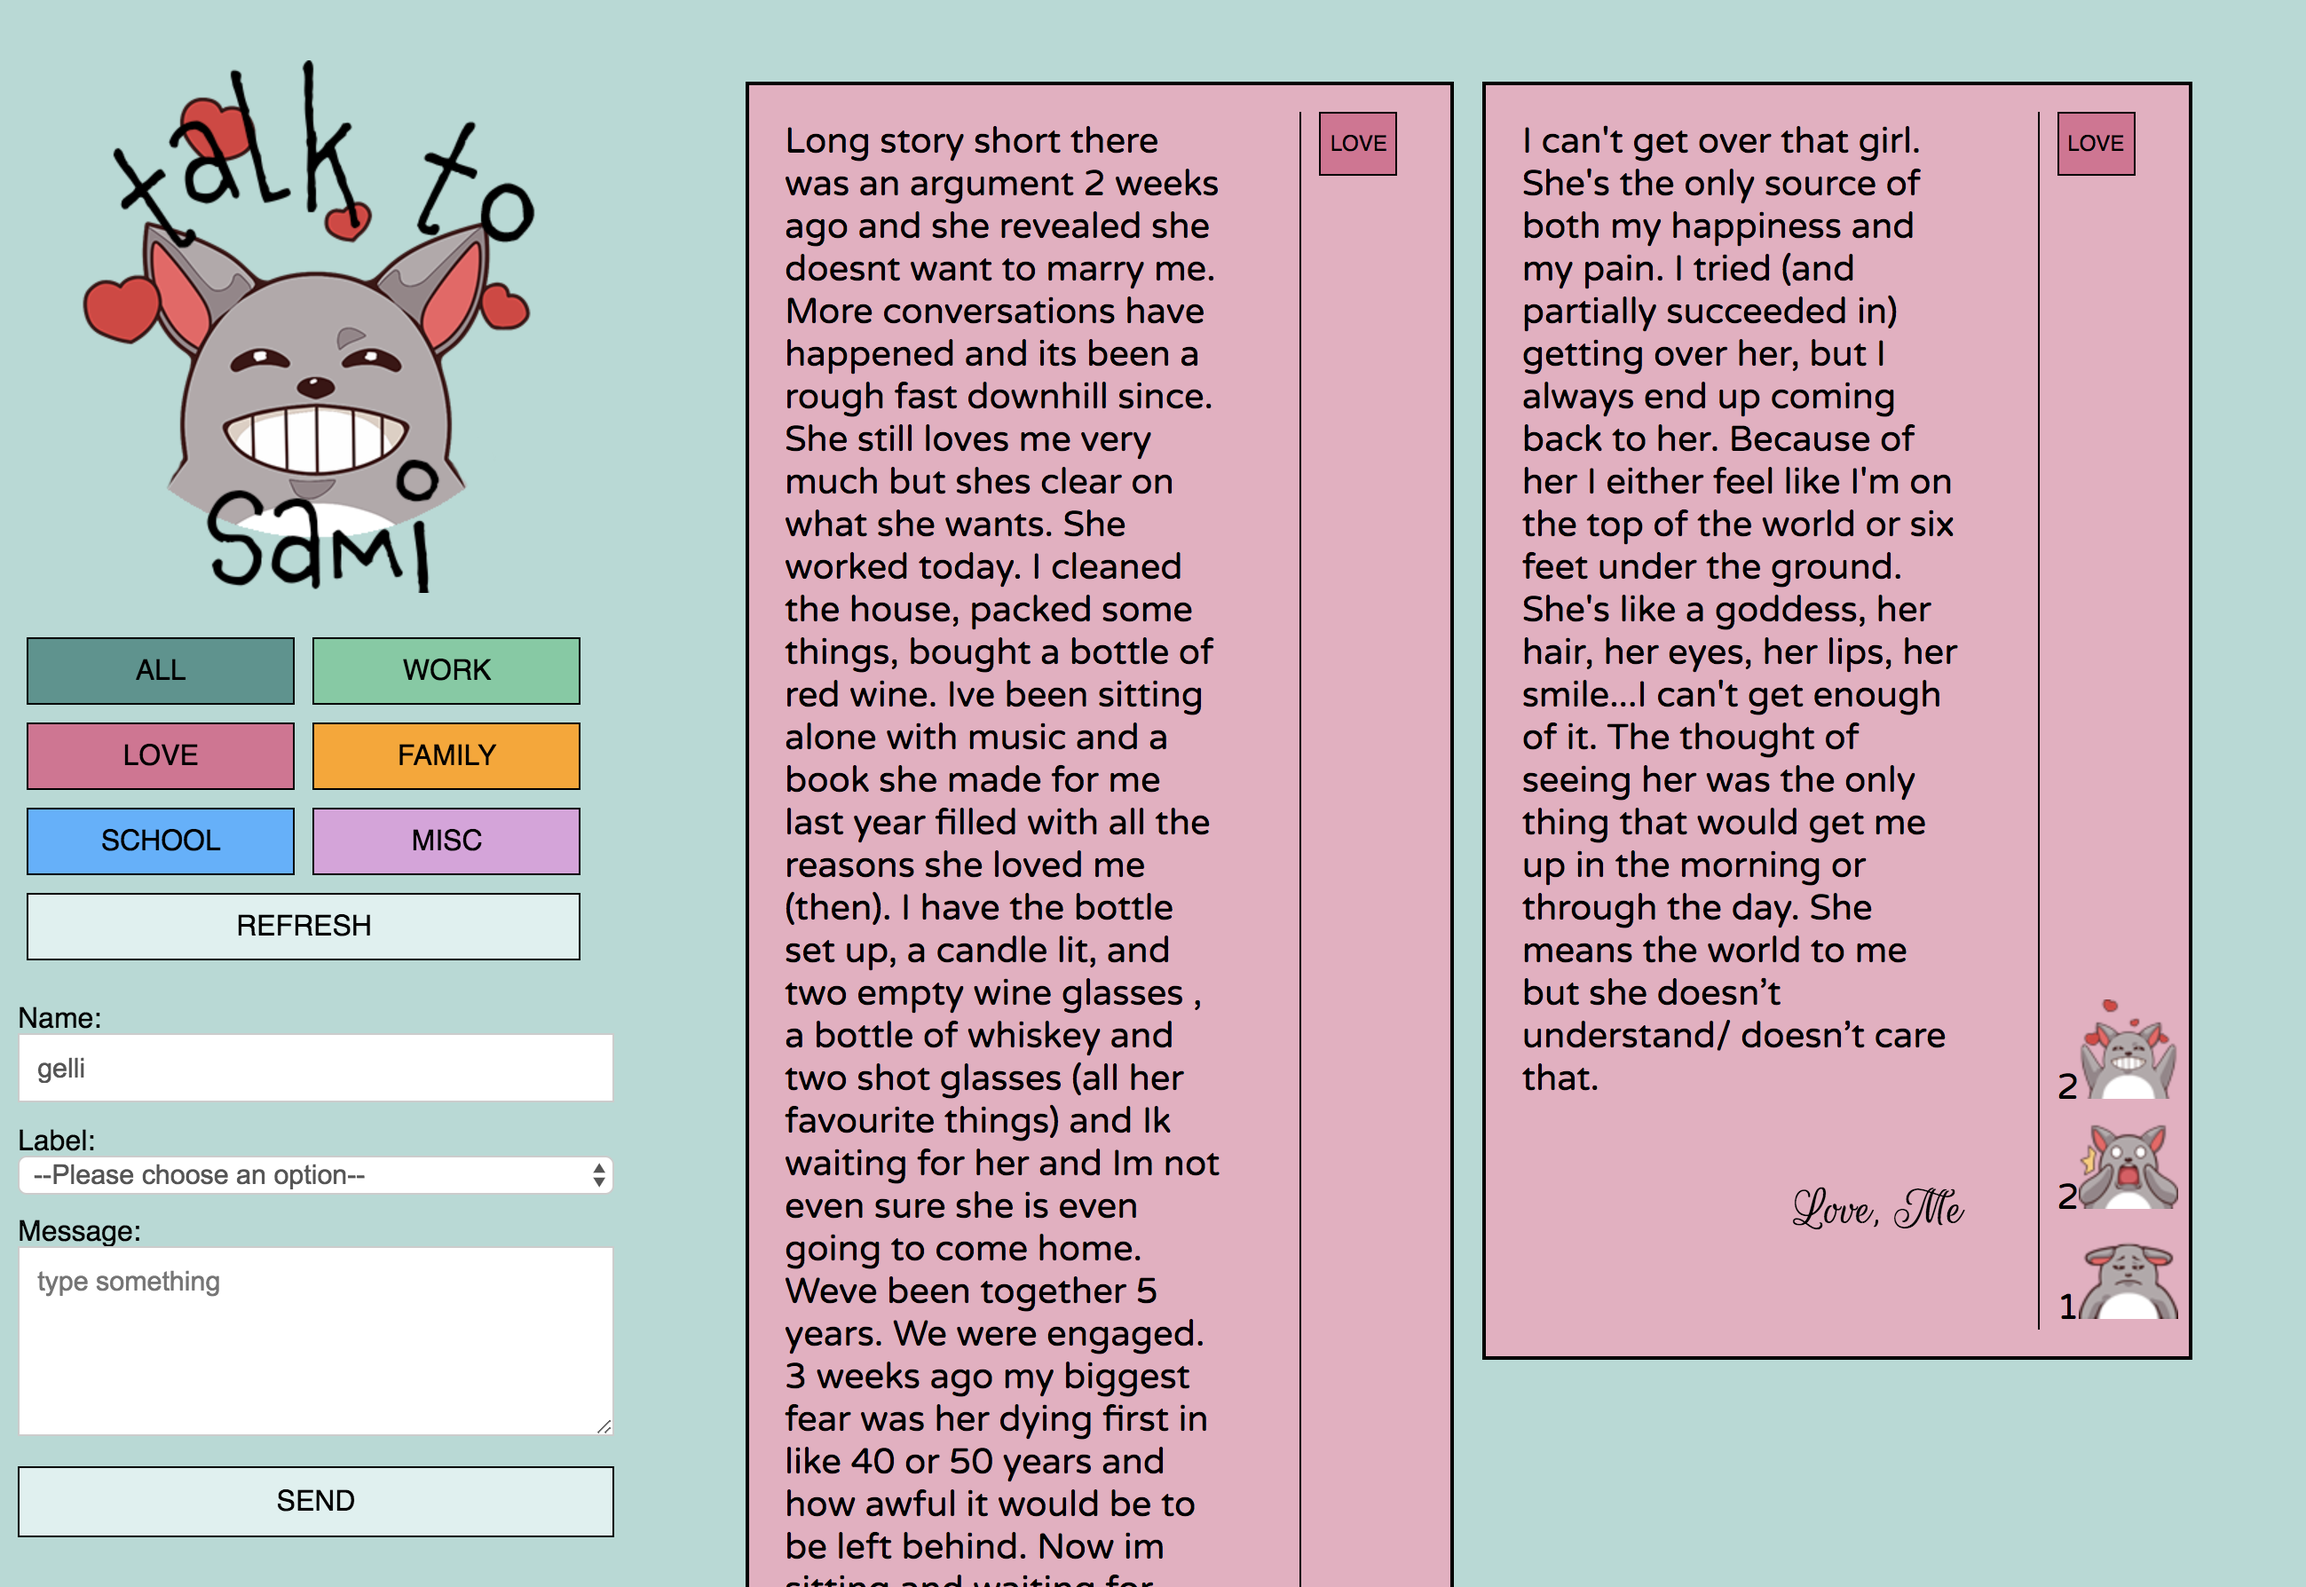
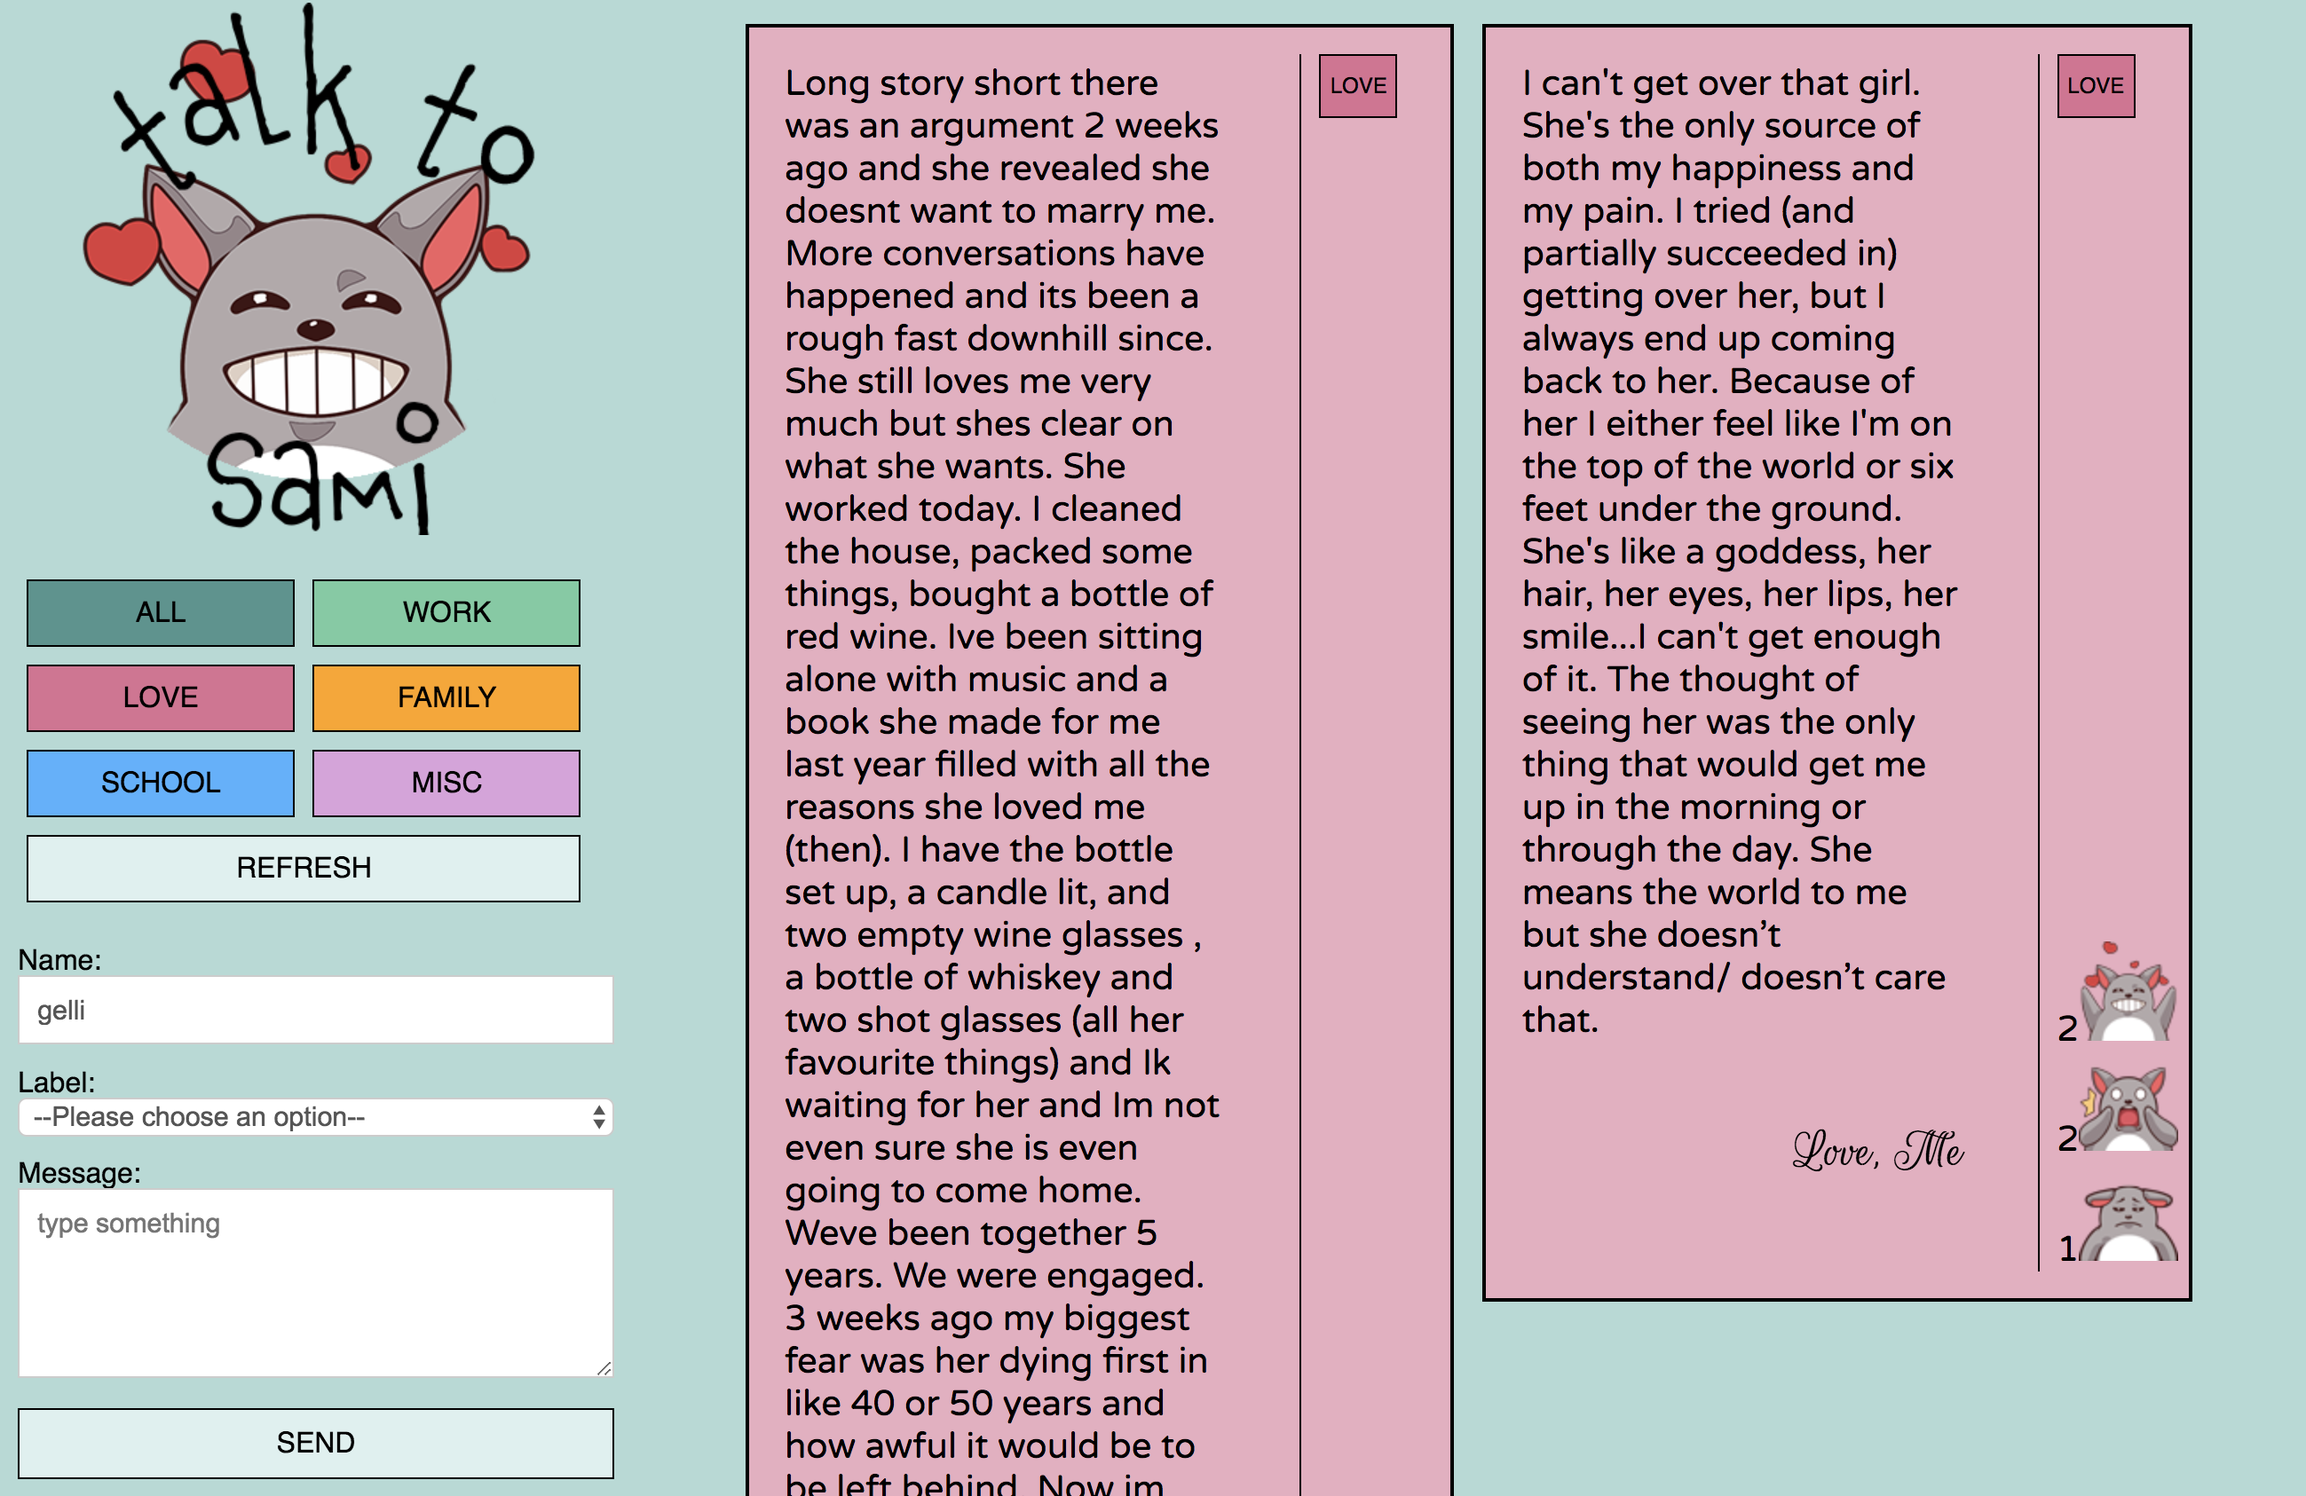
complete

diff --git a/dist/js/homeComponent.js b/dist/js/homeComponent.js
@@ -5,6 +5,6 @@ var home = Vue.component('home', {
     data: function data() {
         return {};
     },
-    template: "\n\t<div class=\"content\">\n    \n        <p>You can also call me Gelli.</p>\n        <p>Currently an Interactive Development student at The Creative Circus</p>\n        <p>Pottermore placed me in Ravenclaw and Horned Serpent</p>\n        <p>Buzzfeed described me as a combo of McGonagall and Daenerys</p>\n        <p>Here is a collection of what I worked on for the past few months:</p>\n        \n        <ul class=\"page-ul\">\n        <li>\n            Project: {{teams.name}}\n            <router-link to=\"/teams\">\n                <div class=\"img-size\"><img :src=\"teams.thumbnail\"></div>\n            </router-link>\n        </li>\n\n        <li>\n            Project: {{node.name}}\n            <router-link to=\"/node\">\n                <div class=\"img-size\"><img :src=\"node.thumbnail\"></div>\n            </router-link>\n        </li>\n\n        <li>\n            Project: {{vuejs.name}}\n            <router-link to=\"/vuejs\">\n                <div class=\"img-size\"><img :src=\"vuejs.thumbnail\"></div>\n            </router-link>\n        </li>\n        </ul>\n\t</div>\n    "
+    template: "\n\t<div class=\"content\">\n    \n        <p>You can also call me Gelli.</p>\n        <p>Currently an Interactive Development student at The Creative Circus</p>\n        <p>Pottermore placed me in Ravenclaw and Horned Serpent</p>\n        <p>Buzzfeed described me as a combo of McGonagall and Daenerys</p>\n        <p>Here is a collection of what I worked on for the past few months:</p>\n        \n        <ul class=\"page links\">\n        <li>\n            Project: {{teams.name}}\n            <router-link to=\"/teams\">\n                <div class=\"img-size\"><img :src=\"teams.thumbnail\"></div>\n            </router-link>\n        </li>\n\n        <li>\n            Project: {{node.name}}\n            <router-link to=\"/node\">\n                <div class=\"img-size\"><img :src=\"node.thumbnail\"></div>\n            </router-link>\n        </li>\n\n        <li>\n            Project: {{vuejs.name}}\n            <router-link to=\"/vuejs\">\n                <div class=\"img-size\"><img :src=\"vuejs.thumbnail\"></div>\n            </router-link>\n        </li>\n        </ul>\n\t</div>\n    "
 });
 //# sourceMappingURL=homeComponent.js.map

diff --git a/dist/js/teamsComponent.js b/dist/js/teamsComponent.js
@@ -5,6 +5,6 @@ var teams = Vue.component('teams', {
     data: function data() {
         return {};
     },
-    template: "\n    <div>\n        <h2>{{teams.name}}</h2>\n        <div class=\"page-ul\">\n            <div class=\"full-page\"><img :src=\"teams.img\"></div>\n            <div class=\"content\">\n                <p><span>Class:</span></span> {{teams.class}}</p>\n                <p><span>Description:</span> {{teams.description}}</p>\n                <p><span>Link:</span> <a :href=\"teams.link\" class=\"source-links\">Click Here</a></p>\n                <p><span>Github Repo:</span> <a :href=\"teams.github\" class=\"source-links\">Click Here</a></p>\n                <router-link to=\"/\" class=\"back\">\n                    <p>Back to home</p>\n                </router-link>\n            </div>\n            \n        </ul>\n        </div>\n    </div>\n    "
+    template: "\n    <div>\n        <h2>{{teams.name}}</h2>\n        <div class=\"page\">\n            <div class=\"full-page\"><img :src=\"teams.img\"></div>\n            <div class=\"content\">\n                <p><span>Class:</span></span> {{teams.class}}</p>\n                <p><span>Description:</span> {{teams.description}}</p>\n                <p><span>Link:</span> <a :href=\"teams.link\" class=\"source-links\">Click Here</a></p>\n                <p><span>Github Repo:</span> <a :href=\"teams.github\" class=\"source-links\">Click Here</a></p>\n                <router-link to=\"/\" class=\"back\">\n                    <p>Back to home</p>\n                </router-link>\n            </div>\n            \n        </ul>\n        </div>\n    </div>\n    "
 });
 //# sourceMappingURL=teamsComponent.js.map

diff --git a/dist/js/vuejsComponent.js b/dist/js/vuejsComponent.js
@@ -1,0 +1,10 @@
+"use strict";
+
+var vuejs = Vue.component('vuejs', {
+    props: ["vuejs"],
+    data: function data() {
+        return {};
+    },
+    template: "\n    <div>\n        <h2>{{vuejs.name}}</h2>\n        <div class=\"page\">\n            <div class=\"full-page\"><img :src=\"vuejs.img\"></div>\n            <div class=\"content\">\n                <p><span>Class:</span></span> {{vuejs.class}}</p>\n                <p><span>Description:</span> {{vuejs.description}}</p>\n                <p><span>Link:</span> <a :href=\"vuejs.link\" class=\"source-links\">Click Here</a></p>\n                <p><span>Github Repo:</span> <a :href=\"vuejs.github\" class=\"source-links\">Click Here</a></p>\n                <router-link to=\"/\" class=\"back\">\n                    <p>Back to home</p>\n                </router-link>\n            </div>\n            \n        </ul>\n        </div>\n    </div>\n    "
+});
+//# sourceMappingURL=vuejsComponent.js.map

diff --git a/dist/js/nodeComponent.js b/dist/js/nodeComponent.js
@@ -1,0 +1,10 @@
+"use strict";
+
+var node = Vue.component('node', {
+    props: ["node"],
+    data: function data() {
+        return {};
+    },
+    template: "\n    <div>\n        <h2>{{node.name}}</h2>\n        <div class=\"page\">\n            <div class=\"full-page\"><img :src=\"node.img\"></div>\n            <div class=\"content\">\n                <p><span>Class:</span></span> {{node.class}}</p>\n                <p><span>Description:</span> {{node.description}}</p>\n                <p><span>Link:</span> <a :href=\"node.link\" class=\"source-links\">Click Here</a></p>\n                <p><span>Github Repo:</span> <a :href=\"node.github\" class=\"source-links\">Click Here</a></p>\n                <router-link to=\"/\" class=\"back\">\n                    <p>Back to home</p>\n                </router-link>\n            </div>\n            \n        </ul>\n        </div>\n    </div>\n    "
+});
+//# sourceMappingURL=nodeComponent.js.map

diff --git a/src/js/vuejsComponent.js b/src/js/vuejsComponent.js
@@ -1,0 +1,28 @@
+let vuejs = Vue.component('vuejs', {
+    props: ["vuejs"],
+    data: function () {
+        return {
+        }
+	},
+	template:
+	
+    `
+    <div>
+        <h2>{{vuejs.name}}</h2>
+        <div class="page">
+            <div class="full-page"><img :src="vuejs.img"></div>
+            <div class="content">
+                <p><span>Class:</span></span> {{vuejs.class}}</p>
+                <p><span>Description:</span> {{vuejs.description}}</p>
+                <p><span>Link:</span> <a :href="vuejs.link" class="source-links">Click Here</a></p>
+                <p><span>Github Repo:</span> <a :href="vuejs.github" class="source-links">Click Here</a></p>
+                <router-link to="/" class="back">
+                    <p>Back to home</p>
+                </router-link>
+            </div>
+            
+        </ul>
+        </div>
+    </div>
+    `
+})

diff --git a/src/js/nodeComponent.js b/src/js/nodeComponent.js
@@ -1,0 +1,28 @@
+let node = Vue.component('node', {
+    props: ["node"],
+    data: function () {
+        return {
+        }
+	},
+	template:
+	
+    `
+    <div>
+        <h2>{{node.name}}</h2>
+        <div class="page">
+            <div class="full-page"><img :src="node.img"></div>
+            <div class="content">
+                <p><span>Class:</span></span> {{node.class}}</p>
+                <p><span>Description:</span> {{node.description}}</p>
+                <p><span>Link:</span> <a :href="node.link" class="source-links">Click Here</a></p>
+                <p><span>Github Repo:</span> <a :href="node.github" class="source-links">Click Here</a></p>
+                <router-link to="/" class="back">
+                    <p>Back to home</p>
+                </router-link>
+            </div>
+            
+        </ul>
+        </div>
+    </div>
+    `
+})

diff --git a/dist/css/main.css b/dist/css/main.css
@@ -145,7 +145,7 @@ h1 a {
 
 @media only screen and (min-width: 640px) {
 	#app {
-		height: 500px;
+		min-height: 500px;
 		padding: 50px;
 	}
 }
@@ -199,26 +199,26 @@ h1 a {
 	width: 100%;
 }
 
-#app .page-ul {
+#app .page {
 	font-family: "henriette";
 }
 
 @media only screen and (min-width: 640px) {
-	#app .page-ul {
+	#app .page {
 		display: flex;
 		justify-content: space-around;
 	}
 }
 
-#app .page-ul li {
-	padding-top: 15px;
-	color: #566D7D;
-}
-
 @media only screen and (min-width: 800px) {
-	#app .page-ul {
+	#app .page.links {
 		padding-top: 30px;
 	}
+}
+
+#app .page li {
+	padding-top: 15px;
+	color: #566D7D;
 }
 
 #app .content {

diff --git a/src/scss/main.scss b/src/scss/main.scss
@@ -117,7 +117,7 @@ h1{
 	font-size: 1.25em;
 
 	@include tablet{
-		height: 500px;
+		min-height: 500px;
 		padding: 50px;
 	}
 
@@ -165,7 +165,7 @@ h1{
 		}
 	}
 
-	.page-ul{
+	.page{
 		font-family: $bodyCopy;
 
 		@include tablet{
@@ -173,13 +173,15 @@ h1{
 			justify-content: space-around;
 		}
 
+		&.links{
+			@include desktop{
+				padding-top: 30px;
+			}
+		}
+
 		li{
 			padding-top: 15px;
 			color:#566D7D;
-		}
-
-		@include desktop{
-			padding-top: 30px;
 		}
 	}
 

diff --git a/dist/js/main.js b/dist/js/main.js
@@ -1,7 +1,7 @@
 'use strict';
 
 var router = new VueRouter({
-    routes: [{ path: '/', component: home }, { path: '/teams', component: teams }],
+    routes: [{ path: '/', component: home }, { path: '/teams', component: teams }, { path: '/node', component: node }, { path: '/vuejs', component: vuejs }],
     linkActiveClass: "active",
     linkExactActiveClass: "exact-active"
 });

diff --git a/src/js/homeComponent.js b/src/js/homeComponent.js
@@ -15,7 +15,7 @@ let home = Vue.component('home', {
         <p>Buzzfeed described me as a combo of McGonagall and Daenerys</p>
         <p>Here is a collection of what I worked on for the past few months:</p>
         
-        <ul class="page-ul">
+        <ul class="page links">
         <li>
             Project: {{teams.name}}
             <router-link to="/teams">

diff --git a/src/js/main.js b/src/js/main.js
@@ -2,6 +2,8 @@ const router = new VueRouter({
 	routes: [
     { path: '/', component: home },
     { path: '/teams', component: teams},
+    { path: '/node', component: node},
+    { path: '/vuejs', component: vuejs},
     // { path: '/projects/:id', name: 'projects', component: projects, props: true } 
 	],
 	linkActiveClass: "active",	

diff --git a/index.html b/index.html
@@ -34,6 +34,8 @@
 		<script src="dist/js/projectsData.js"></script>
 		<script src="dist/js/projectComponent.js"></script>
 		<script src="dist/js/teamsComponent.js"></script>
+		<script src="dist/js/nodeComponent.js"></script>
+		<script src="dist/js/vuejsComponent.js"></script>
 		<script src="dist/js/main.js"></script>
 
 	</body>
